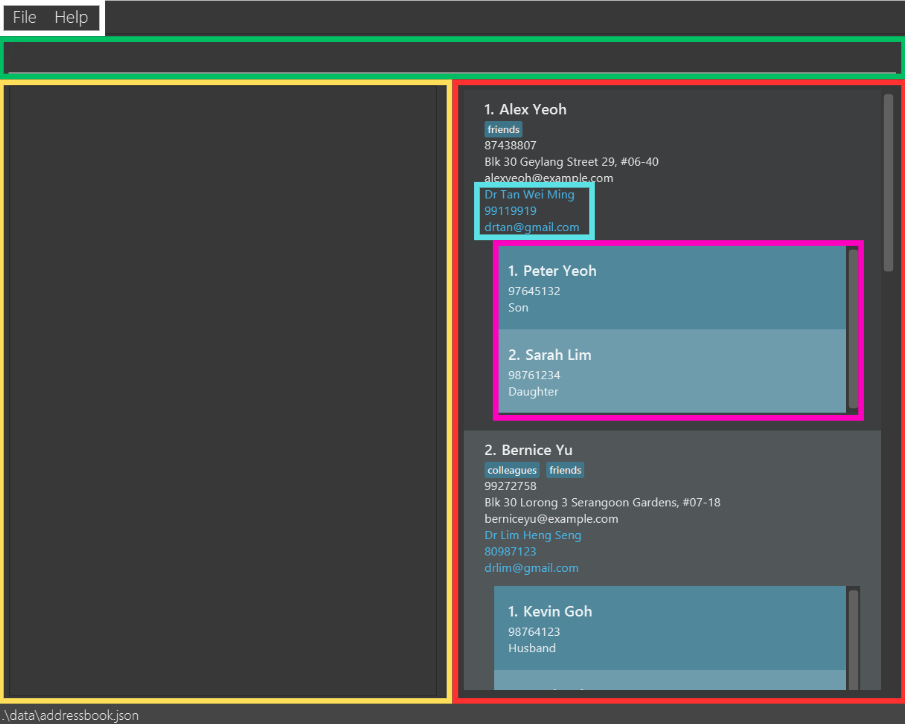
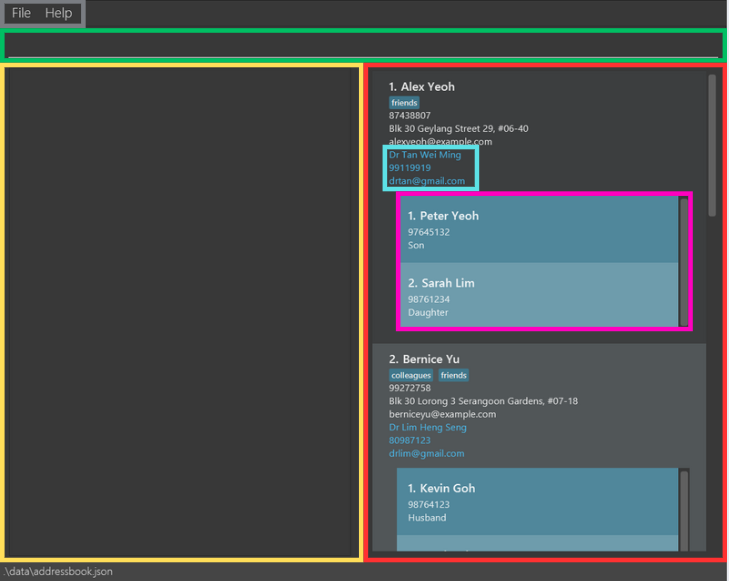
Change color in GUI tutorial

Changed region(s): [[0.0, 0.0, 1.0, 1.0]]

diff --git a/docs/UserGuide.md b/docs/UserGuide.md
@@ -78,7 +78,7 @@ By following these sections, you can quickly find the information you need and m
 
 ![uitutorial](images/uitutorial.png)
 
-<span style="font-size: 20px; font-weight: bold">Menu Bar</span>
+<span style="font-size: 20px; font-weight: bold; color: #7a7d82">Menu Bar</span>
 * Clicking `File` will show the option to exit the application.
 * Clicking `Help` will show `Help F1` which when clicked will link you to this User Guide!
 
